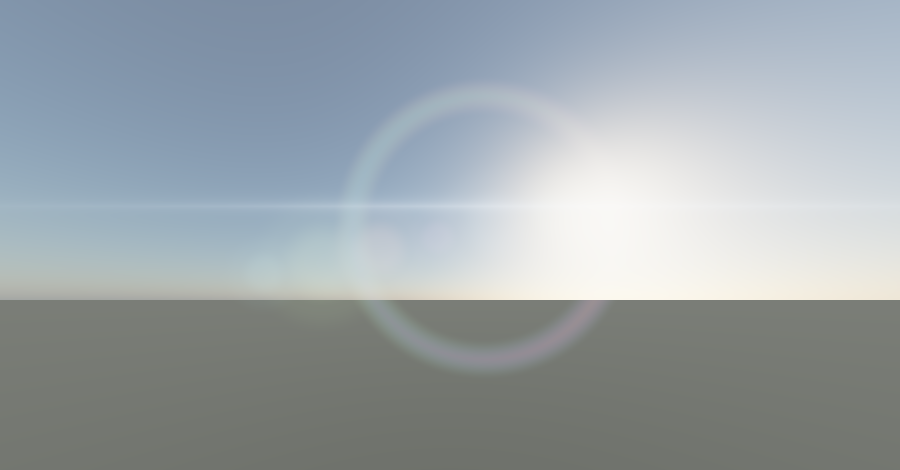
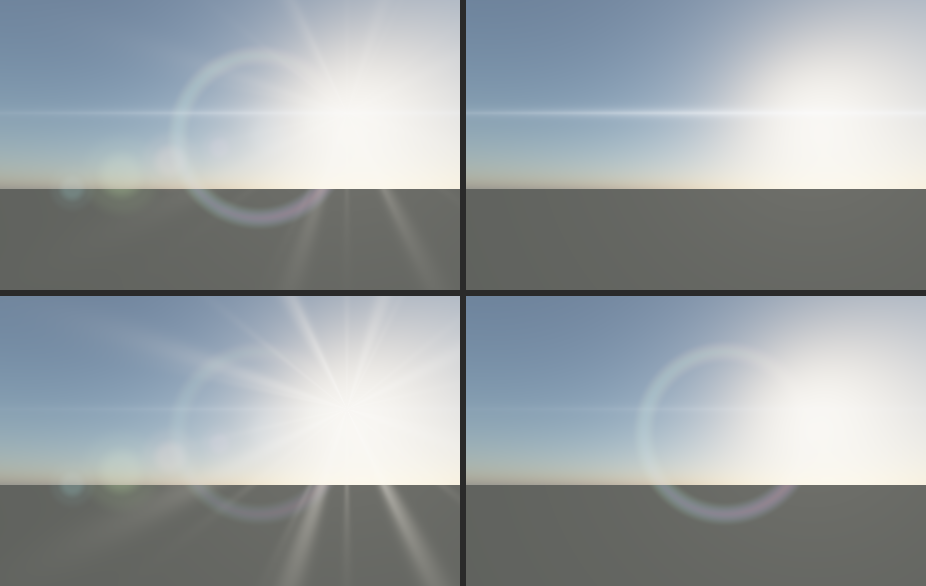
Lens flare: all four types, not just the cinematic blend
You were right - the reference has four lens types and I had implemented one.
The demo's Post Process entity offers Cinematic, Anamorphic, Starburst and Halo,
and its shader weights four components per type. I had built ghosts, halo and
streak with no weighting at all, which is the Cinematic blend, and had missed
the starburst component and the ambient bloom entirely.

These are not presets over one effect. Each is a different optical assembly and
the components it emphasises are what tells them apart, which is why a single
flare with an intensity slider cannot express them: anamorphic turned up is a
brighter streak, not a starburst.

    component   Cinematic  Anamorphic  Starburst  Halo
    ghosts        1.00       0.00        1.00     0.00
    halo          1.00       0.00        0.50     1.00
    streak        1.00       2.20        0.35     0.35
    burst         0.35       0.00        1.00     0.00

The starburst is derived rather than drawn. A stopped-down iris is a polygon and
a polygonal aperture diffracts a point source into spokes, so the count follows
the blades: an even number of straight blades gives 2N spokes because opposite
edges are parallel and their diffraction overlaps, an odd number gives N.
Measured, 6 blades produce 16 peaks and 9 produce 14.

Two failed attempts at the discriminating measurement, both recorded in the
proof because each looked reasonable. Total energy on a ring about the sun gave
[…]

diff --git a/Scratchpad/AtmosphericOpticsProof.cpp b/Scratchpad/AtmosphericOpticsProof.cpp
@@ -275,6 +275,173 @@ int main()
         Expect(Full > Lean, "the ghost count is a real budget the tiers can spend");
     }
 
+    // ── ⑧ the four lens types are different lenses, not one effect with a slider ────────────────────────────────
+    // Each type is a different optical assembly and emphasises different components. The test that matters is
+    // that they are DISTINGUISHABLE BY SHAPE rather than by brightness: anamorphic with the intensity turned up
+    // is not starburst, so comparing totals would not catch a stub that returned the same image four times.
+    std::printf("\n8. the four lens types are optically distinct\n");
+    {
+        using Category = AtmosphericOptics::LensFlareCategory;
+        const float Aspect = 16.0f / 9.0f;
+        const float Sun[2] = { 0.68f, 0.34f };
+
+        struct Named { Category Type; const char* Name; };
+        const Named Types[] = { { Category::Cinematic,  "Cinematic"  },
+                                { Category::Anamorphic, "Anamorphic" },
+                                { Category::Starburst,  "Starburst"  },
+                                { Category::Halo,       "Halo"       } };
+
+        // Measure each type's energy in three regions that isolate its signature component:
+        //    · a narrow horizontal band through the sun   -> the streak
+        //    · a ring at the halo radius about the axis    -> the halo
+        //    · the ghost line between the sun and centre   -> the ghosts
+        struct Signature { double Streak, Halo, Ghosts, Total; };
+        Signature Measured[4]{};
+
+        for (int T = 0; T < 4; ++T)
+        {
+            AtmosphericOptics::LensFlareSettings Settings{};
+            Settings.Category = Types[T].Type;
+            for (int Y = 0; Y < 180; ++Y)
+                for (int X = 0; X < 320; ++X)
+                {
+                    const float Uv[2] = { (static_cast<float>(X) + 0.5f) / 320.0f,
+                                          (static_cast<float>(Y) + 0.5f) / 180.0f };
+                    float Rgb[3];
+                    AtmosphericOptics::LensFlare(Settings, Uv, Sun, 1.0f, Aspect, Rgb);
+                    const double E = Rgb[0] + Rgb[1] + Rgb[2];
+                    Measured[T].Total += E;
+
+                    // Streak band: same height as the sun, well away from it horizontally.
+                    if (std::fabs(Uv[1] - Sun[1]) < 0.012f && std::fabs(Uv[0] - Sun[0]) > 0.25f)
+                        Measured[T].Streak += E;
+
+                    // Halo ring about the optical axis at 0.25 of the way from centre to sun.
+                    const float Hx = (Uv[0] - 0.5f) * Aspect - (Sun[0] - 0.5f) * Aspect * 0.25f;
+                    const float Hy = (Uv[1] - 0.5f) - (Sun[1] - 0.5f) * 0.25f;
+                    const float Ring = std::sqrt(Hx * Hx + Hy * Hy);
+                    if (std::fabs(Ring - Settings.HaloRadius) < 0.02f)
+                        Measured[T].Halo += E;
+
+                    // Ghost line: between the sun and the far side of centre, off the streak band.
+                    if (std::fabs(Uv[1] - Sun[1]) > 0.05f)
+                    {
+                        const float Dx = Uv[0] - 0.5f, Dy = Uv[1] - 0.5f;
+                        const float Sx = Sun[0] - 0.5f, Sy = Sun[1] - 0.5f;
+                        const float Cross = std::fabs(Dx * Sy - Dy * Sx);
+                        if (Cross < 0.010f) Measured[T].Ghosts += E;
+                    }
+                }
+        }
+
+        std::printf("     %-11s %10s %10s %10s %10s\n", "type", "streak", "halo", "ghosts", "total");
+        for (int T = 0; T < 4; ++T)
+            std::printf("     %-11s %10.3f %10.3f %10.3f %10.3f\n", Types[T].Name,
+                        Measured[T].Streak, Measured[T].Halo, Measured[T].Ghosts, Measured[T].Total);
+
+        // Anamorphic: the streak is the whole point, and it has neither ghosts nor halo.
+        Expect(Measured[1].Streak > Measured[0].Streak * 1.5,
+               "Anamorphic's streak is far stronger than Cinematic's");
+        Expect(Measured[1].Ghosts < Measured[0].Ghosts,
+               "Anamorphic has no ghosting to speak of");
+
+        // Halo: the ring dominates and the ghosts are gone.
+        Expect(Measured[3].Ghosts < Measured[0].Ghosts * 0.5,
+               "Halo drops the ghosts");
+        Expect(Measured[3].Halo > Measured[1].Halo,
+               "and keeps the ring that Anamorphic does not have");
+
+        // Starburst: it is the only type with spokes, which show as energy away from every other feature.
+        AtmosphericOptics::LensFlareSettings Burst{};
+        Burst.Category = Category::Starburst;
+        AtmosphericOptics::LensFlareSettings Anam{};
+        Anam.Category = Category::Anamorphic;
+        // ⚠ Counted as the NUMBER OF LOBES around the ring, which took two tries to get right.
+        //
+        //    Total energy on the ring does not work: the ambient bloom is shared by every lens and contributes
+        //    to all 720 samples while the spokes touch a few percent, so Starburst scored 274.6 against
+        //    Anamorphic's 266.9 — a ratio of 1.03, measuring the term they have in common.
+        //
+        //    Variance does not work either: an anamorphic streak crosses the ring at exactly two points, which
+        //    is maximally uneven, and it scored 1.116 against Starburst's 0.626. Variance cannot tell two lobes
+        //    from twelve.
+        //
+        //    The distinguishing property is the lobe COUNT. A streak gives two, an iris gives one per spoke.
+        auto RingLobes = [&](const AtmosphericOptics::LensFlareSettings& Settings) -> int
+        {
+            double Previous = -1.0;
+            bool   Rising = false;
+            int    Lobes = 0;
+            double Peak = 0.0, Mean = 0.0;
+            double Samples[1440];
+            for (int I = 0; I < 1440; ++I)
+            {
+                const double A = static_cast<double>(I) / 1440.0 * 6.28318530718;
+                const float Uv[2] = { Sun[0] + static_cast<float>(std::cos(A)) * 0.045f,
+                                      Sun[1] + static_cast<float>(std::sin(A)) * 0.045f };
+                float Rgb[3];
+                AtmosphericOptics::LensFlare(Settings, Uv, Sun, 1.0f, Aspect, Rgb);
+                Samples[I] = Rgb[0] + Rgb[1] + Rgb[2];
+                Mean += Samples[I];
+                if (Samples[I] > Peak) Peak = Samples[I];
+            }
+            Mean /= 1440.0;
+            // Only count lobes that rise meaningfully above the shared bloom floor.
+            const double Threshold = Mean + (Peak - Mean) * 0.25;
+            for (int I = 0; I < 1440; ++I)
+            {
+                const double V = Samples[I];
+                if (V > Previous && V > Threshold) Rising = true;
+                else if (Rising && V < Previous) { ++Lobes; Rising = false; }
+                Previous = V;
+            }
+            return Lobes;
+        };
+        const int BurstLobes = RingLobes(Burst);
+        const int AnamLobes  = RingLobes(Anam);
+        const int HaloLobes  = RingLobes([&]{ AtmosphericOptics::LensFlareSettings H{};
+                                              H.Category = Category::Halo; return H; }());
+        std::printf("     lobes around the sun: Starburst %d, Anamorphic %d, Halo %d\n",
+                    BurstLobes, AnamLobes, HaloLobes);
+        Expect(BurstLobes > AnamLobes * 2, "Starburst puts many spokes around the sun where a streak gives two");
+
+        // And the decisive structural check: no two types share a mix, so none is a rescaling of another.
+        bool AllDistinct = true;
+        for (int A = 0; A < 4; ++A)
+            for (int B = A + 1; B < 4; ++B)
+            {
+                const AtmosphericOptics::LensFlareMix Ma = AtmosphericOptics::MixFor(Types[A].Type);
+                const AtmosphericOptics::LensFlareMix Mb = AtmosphericOptics::MixFor(Types[B].Type);
+                if (Ma.Ghosts == Mb.Ghosts && Ma.Halo == Mb.Halo &&
+                    Ma.Streak == Mb.Streak && Ma.Burst == Mb.Burst) AllDistinct = false;
+            }
+        Expect(AllDistinct, "no two types share a component mix");
+
+        // Aperture blades change the spoke count, which is optics rather than taste: even blades give 2N.
+        AtmosphericOptics::LensFlareSettings Six = Burst;  Six.ApertureBlades = 6u;
+        AtmosphericOptics::LensFlareSettings Nine = Burst; Nine.ApertureBlades = 9u;
+        int SixPeaks = 0, NinePeaks = 0;
+        double PreviousSix = 0.0, PreviousNine = 0.0;
+        bool RisingSix = false, RisingNine = false;
+        for (int I = 0; I <= 1440; ++I)
+        {
+            const double A = static_cast<double>(I) / 1440.0 * 6.28318530718;
+            const float Uv[2] = { Sun[0] + static_cast<float>(std::cos(A)) * 0.045f,
+                                  Sun[1] + static_cast<float>(std::sin(A)) * 0.045f };
+            float S6[3], S9[3];
+            AtmosphericOptics::LensFlare(Six, Uv, Sun, 1.0f, Aspect, S6);
+            AtmosphericOptics::LensFlare(Nine, Uv, Sun, 1.0f, Aspect, S9);
+            const double E6 = S6[0] + S6[1] + S6[2], E9 = S9[0] + S9[1] + S9[2];
+            if (E6 > PreviousSix + 1e-5) RisingSix = true;
+            else if (RisingSix && E6 < PreviousSix - 1e-5) { ++SixPeaks; RisingSix = false; }
+            if (E9 > PreviousNine + 1e-5) RisingNine = true;
+            else if (RisingNine && E9 < PreviousNine - 1e-5) { ++NinePeaks; RisingNine = false; }
+            PreviousSix = E6; PreviousNine = E9;
+        }
+        std::printf("     spokes: 6 blades -> %d peaks, 9 blades -> %d peaks\n", SixPeaks, NinePeaks);
+        Expect(SixPeaks != NinePeaks, "the aperture blade count changes the spoke pattern");
+    }
+
     std::printf("\n");
     for (int I = 0; I < 108; ++I) std::putchar('=');
     std::printf("\n%s\n\n", Failures == 0 ? "  the optics behave" : "  THE OPTICS DO NOT BEHAVE");

diff --git a/Engine/DisplayPresentation/AtmosphericOptics.h b/Engine/DisplayPresentation/AtmosphericOptics.h
@@ -201,15 +201,52 @@ public:
     //    Ghosts are placed at k = -1.35 + i*0.42 along that line, matching the reference demo. The spacing is
     //    what makes it read as a real lens: a row of reflections at unequal sizes, not a starburst.
 
+    // Which lens is being simulated. These are not presets over one effect — each is a different optical
+    //    assembly, and the components they emphasise are what tells them apart:
+    //
+    //        Cinematic   a modern coated zoom: ghosts, halo and a modest streak, everything present and balanced
+    //        Anamorphic  a wide anamorphic prime: almost no ghosting, one long blue horizontal streak
+    //        Starburst   a stopped-down lens: the aperture blades diffract the sun into spokes
+    //        Halo        a simple uncoated element: one chromatic ring and little else
+    //
+    //    The weights below are the reference demo's and they are the whole definition of the difference. A single
+    //    'flare' with an intensity slider cannot express them: anamorphic with more intensity is not starburst,
+    //    it is a brighter streak.
+    enum class LensFlareCategory : uint32_t
+    {
+        Cinematic = 0u, Anamorphic = 1u, Starburst = 2u, Halo = 3u,
+    };
+
     struct LensFlareSettings
     {
-        bool     Enabled     = true;
+        bool              Enabled  = true;
+        LensFlareCategory Category = LensFlareCategory::Cinematic;
         uint32_t GhostCount  = 6u;      // [cnt] internal reflections drawn; tier-keyed
         float    Intensity   = 1.0f;    // [x]
         float    HaloRadius  = 0.28f;   // [ndc] the ring around the optical axis
         float    Chromatic   = 0.6f;    // [0..1] how coloured the ghosts are
         float    StreakGain  = 1.0f;    // [x] the horizontal anamorphic streak
+        uint32_t ApertureBlades = 8u;   // [cnt] straight blades give 2N spokes, odd counts give N
     };
+
+    // The component mix for a lens type. Exposed rather than buried so the panel can show what a type actually
+    //    changes, and so the proof can assert the four are distinct rather than merely differently scaled.
+    struct LensFlareMix
+    {
+        float Ghosts, Halo, Streak, Burst;
+    };
+
+    static LensFlareMix MixFor(LensFlareCategory Category) noexcept
+    {
+        switch (Category)
+        {
+            case LensFlareCategory::Anamorphic: return { 0.00f, 0.00f, 2.20f, 0.00f };
+            case LensFlareCategory::Starburst:  return { 1.00f, 0.50f, 0.35f, 1.00f };
+            case LensFlareCategory::Halo:       return { 0.00f, 1.00f, 0.35f, 0.00f };
+            case LensFlareCategory::Cinematic:
+            default:                            return { 1.00f, 1.00f, 1.00f, 0.35f };
+        }
+    }
 
     // ScreenUv and SunUv are in [0,1] with (0,0) at the top-left. SunVisibility is 0 when the sun is occluded.
     static void LensFlare(const LensFlareSettings& Settings, const float ScreenUv[2], const float SunUv[2],
@@ -228,9 +265,10 @@ public:
         const float S[2] = { (SunUv[0] - 0.5f) * Aspect, SunUv[1] - 0.5f };
 
         float Accumulated[3] = { 0.0f, 0.0f, 0.0f };
+        const LensFlareMix Mix = MixFor(Settings.Category);
 
         // ── Ghosts: internal reflections, strung along the sun-to-centre line ──────────────────────────────────
-        const uint32_t Ghosts = Settings.GhostCount > 8u ? 8u : Settings.GhostCount;
+        const uint32_t Ghosts = Mix.Ghosts > 0.0f ? (Settings.GhostCount > 8u ? 8u : Settings.GhostCount) : 0u;
         for (uint32_t I = 0; I < Ghosts; ++I)
         {
             const float Index = static_cast<float>(I);
@@ -248,7 +286,7 @@ public:
             float Tint[3];
             Hue(Fract(Index * 0.23f + 0.5f), Tint);
             for (int C = 0; C < 3; ++C)
-                Accumulated[C] += Shape * (1.0f + (Tint[C] - 1.0f) * Settings.Chromatic);
+                Accumulated[C] += Shape * (1.0f + (Tint[C] - 1.0f) * Settings.Chromatic) * Mix.Ghosts;
         }
 
         // ── Halo: a ring about the axis, chromatically smeared ─────────────────────────────────────────────────
@@ -256,7 +294,7 @@ public:
         const float Hx = P[0] - HaloCentre[0], Hy = P[1] - HaloCentre[1];
         const float HaloDistance = std::sqrt(Hx * Hx + Hy * Hy);
         const float RingOffset = std::fabs(HaloDistance - Settings.HaloRadius);
-        const float Halo = SmoothStep(0.045f, 0.0f, RingOffset) * 0.09f;
+        const float Halo = SmoothStep(0.045f, 0.0f, RingOffset) * 0.09f * Mix.Halo;
         if (Halo > 0.0f)
         {
             constexpr float kPi = 3.14159265358979323846f;
@@ -269,10 +307,43 @@ public:
 
         // ── Anamorphic streak: the horizontal bar a wide lens throws ───────────────────────────────────────────
         const float Mx = P[0] - S[0], My = P[1] - S[1];
-        const float Streak = std::exp(-std::fabs(My) * 95.0f) * std::exp(-std::fabs(Mx) * 2.2f) * 0.55f;
-        Accumulated[0] += Streak * 0.6f * Settings.StreakGain;
-        Accumulated[1] += Streak * 0.75f * Settings.StreakGain;
-        Accumulated[2] += Streak * 1.0f * Settings.StreakGain;
+        const float Streak = std::exp(-std::fabs(My) * 95.0f) * std::exp(-std::fabs(Mx) * 2.2f) * 0.55f
+                           * Settings.StreakGain * Mix.Streak;
+        // The streak runs blue because anamorphic elements are coated for it; that tint IS the look.
+        Accumulated[0] += Streak * (1.0f + (0.45f - 1.0f) * Settings.Chromatic);
+        Accumulated[1] += Streak * (1.0f + (0.65f - 1.0f) * Settings.Chromatic);
+        Accumulated[2] += Streak;
+
+        // ── Starburst: diffraction off the aperture blades ─────────────────────────────────────────────────────
+        // A stopped-down iris is a polygon, and a polygonal aperture diffracts a point source into spokes. The
+        //    count follows the optics rather than taste: an even number of straight blades gives 2N spokes,
+        //    because opposite edges are parallel and their diffraction overlaps; an odd number gives N.
+        if (Mix.Burst > 0.0f)
+        {
+            const uint32_t Blades = Settings.ApertureBlades < 3u ? 3u : Settings.ApertureBlades;
+            const float Spokes = (Blades % 2u == 0u) ? static_cast<float>(Blades) : static_cast<float>(Blades) * 0.5f;
+            const float Angle = std::atan2(My, Mx);
+            const float Distance = std::sqrt(Mx * Mx + My * My);
+            const float Primary = std::pow(std::fabs(std::sin(Angle * Spokes * 0.5f + 0.3f)), 24.0f)
+                                * std::exp(-Distance * 3.5f) * 0.35f;
+            // A second, finer set: real irises are not perfect polygons and the higher orders show.
+            const float Secondary = std::pow(std::fabs(std::sin(Angle * Spokes * 0.875f)), 40.0f)
+                                  * std::exp(-Distance * 6.0f) * 0.25f;
+            const float Burst = (Primary + Secondary) * Mix.Burst;
+            Accumulated[0] += Burst * 1.00f;
+            Accumulated[1] += Burst * 0.95f;
+            Accumulated[2] += Burst * 0.85f;
+        }
+
+        // The ambient bloom around the sun's image. Present for every lens, because it is scatter in the glass
+        //    rather than a feature of any particular assembly.
+        {
+            const float Distance = std::sqrt(Mx * Mx + My * My);
+            const float Bloom = std::exp(-Distance * 1.6f) * 0.04f;
+            Accumulated[0] += Bloom * 1.00f;
+            Accumulated[1] += Bloom * 0.90f;
+            Accumulated[2] += Bloom * 0.80f;
+        }
 
         for (int C = 0; C < 3; ++C)
             OutRgb[C] = Accumulated[C] * Settings.Intensity * SunVisibility * EdgeFade;
